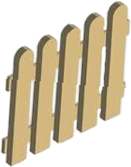
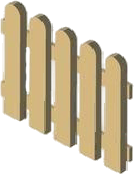
feat: Implement initial game screen with isometric map rendering, including background decorations and new fence assets.

diff --git a/lib/game/isometric_map.dart b/lib/game/isometric_map.dart
@@ -62,21 +62,46 @@ class IsometricMap extends StatelessWidget {
         // Only for background tiles on the TOP sides (x < 0 or y < 0)
         bool isTreeRow = false;
         String? treeAsset;
+        String? fenceAsset;
+
+        double fenceDx = 0;
+        double fenceDy = 0;
 
         if (!isForeground) {
-          // Top-Left border (x is negative) or Top-Right border (y is negative)
+          // 1. Forest Decoration (Top sides only)
           bool isTopSide = (x >= -2 && x < 0) || (y >= -2 && y < 0);
-          
           if (isTopSide) {
-            // Pseudo-random placement based on coordinates to keep it stable
-            // 40% chance of a tree
             int hash = (x * 7 + y * 13).abs();
             if ((hash % 5) < 2) {
               isTreeRow = true;
-              // Pick one of 3 trees
               int variant = (hash % 3) + 1;
               treeAsset = 'assets/game_images/3d/outside_tree/tree$variant.png';
             }
+          }
+
+          // 2. Fence Boundary Detection
+          // Fence 1: Top-Right (y=-1) and Bottom-Left (y=gridHeight)
+          // Fence 2: Top-Left (x=-1) and Bottom-Right (x=gridWidth)
+          
+          bool isInXRange = (x >= 0 && x < gridWidth);
+          bool isInYRange = (y >= 0 && y < gridHeight);
+
+          if (y == -1 && isInXRange) {
+             fenceAsset = 'assets/game_images/3d/outside_fance/fance1.png';
+             fenceDx = -tileWidth / 4;
+             fenceDy = -tileHeight / 4 - 12; // Shifting significantly down
+          } else if (y == gridHeight && isInXRange) {
+             fenceAsset = 'assets/game_images/3d/outside_fance/fance1.png';
+             fenceDx = tileWidth / 4;
+             fenceDy = tileHeight / 4 - 12; 
+          } else if (x == -1 && isInYRange) {
+             fenceAsset = 'assets/game_images/3d/outside_fance/fance2.png';
+             fenceDx = tileWidth / 4;
+             fenceDy = -tileHeight / 4 - 12;
+          } else if (x == gridWidth && isInYRange) {
+             fenceAsset = 'assets/game_images/3d/outside_fance/fance2.png';
+             fenceDx = -tileWidth / 4;
+             fenceDy = tileHeight / 4 - 12;
           }
         }
 
@@ -91,6 +116,9 @@ class IsometricMap extends StatelessWidget {
           isForeground: isForeground,
           hasTree: isTreeRow,
           treeAsset: treeAsset,
+          fenceAsset: fenceAsset,
+          fenceDx: fenceDx,
+          fenceDy: fenceDy,
         ));
       }
     }
@@ -114,12 +142,20 @@ class IsometricMap extends StatelessWidget {
       return Positioned(
         left: e.isoX,
         top: e.isoY,
-        child: _buildTile(e.x, e.y, isBackground: !e.isForeground, hasTree: e.hasTree, treeAsset: e.treeAsset),
+        child: _buildTile(
+          e.x, e.y, 
+          isBackground: !e.isForeground, 
+          hasTree: e.hasTree, 
+          treeAsset: e.treeAsset, 
+          fenceAsset: e.fenceAsset,
+          fenceDx: e.fenceDx,
+          fenceDy: e.fenceDy,
+        ),
       );
     }).toList();
   }
 
-  Widget _buildTile(int x, int y, {required bool isBackground, bool hasTree = false, String? treeAsset}) {
+  Widget _buildTile(int x, int y, {required bool isBackground, bool hasTree = false, String? treeAsset, String? fenceAsset, double fenceDx = 0, double fenceDy = 0}) {
     // Check if there is an item at this position (only for foreground)
     final dynamic cellData = (!isBackground && matrix.length > y && matrix[y].length > x) 
         ? matrix[y][x] 
@@ -171,6 +207,19 @@ class IsometricMap extends StatelessWidget {
                 fit: BoxFit.contain,
               ),
             ),
+
+          // Fence Overlay
+          if (fenceAsset != null)
+             Positioned(
+               bottom: (tileHeight / 2) + fenceDy,
+               left: fenceDx,
+               width: tileWidth,
+               child: Image.asset(
+                 fenceAsset!,
+                 height: tileHeight * 2, // Fences are usually taller than tiles
+                 fit: BoxFit.contain,
+               ),
+             ),
         ],
       ),
     );
@@ -232,6 +281,9 @@ class _TileEntry {
   final bool isForeground;
   final bool hasTree;
   final String? treeAsset;
+  final String? fenceAsset;
+  final double fenceDx;
+  final double fenceDy;
 
   _TileEntry({
     required this.x,
@@ -241,6 +293,9 @@ class _TileEntry {
     required this.isForeground,
     required this.hasTree,
     this.treeAsset,
+    this.fenceAsset,
+    this.fenceDx = 0,
+    this.fenceDy = 0,
   });
 }
 

diff --git a/lib/game/game_screen.dart b/lib/game/game_screen.dart
@@ -77,6 +77,14 @@ class _GameScreenState extends State<GameScreen> {
         const AssetImage('assets/game_images/3d/outside_tree/tree3.png'),
         context,
       );
+      await precacheImage(
+        const AssetImage('assets/game_images/3d/outside_fance/fance1.png'),
+        context,
+      );
+      await precacheImage(
+        const AssetImage('assets/game_images/3d/outside_fance/fance2.png'),
+        context,
+      );
       return true;
     } catch (e) {
       print('Asset load error: $e');
